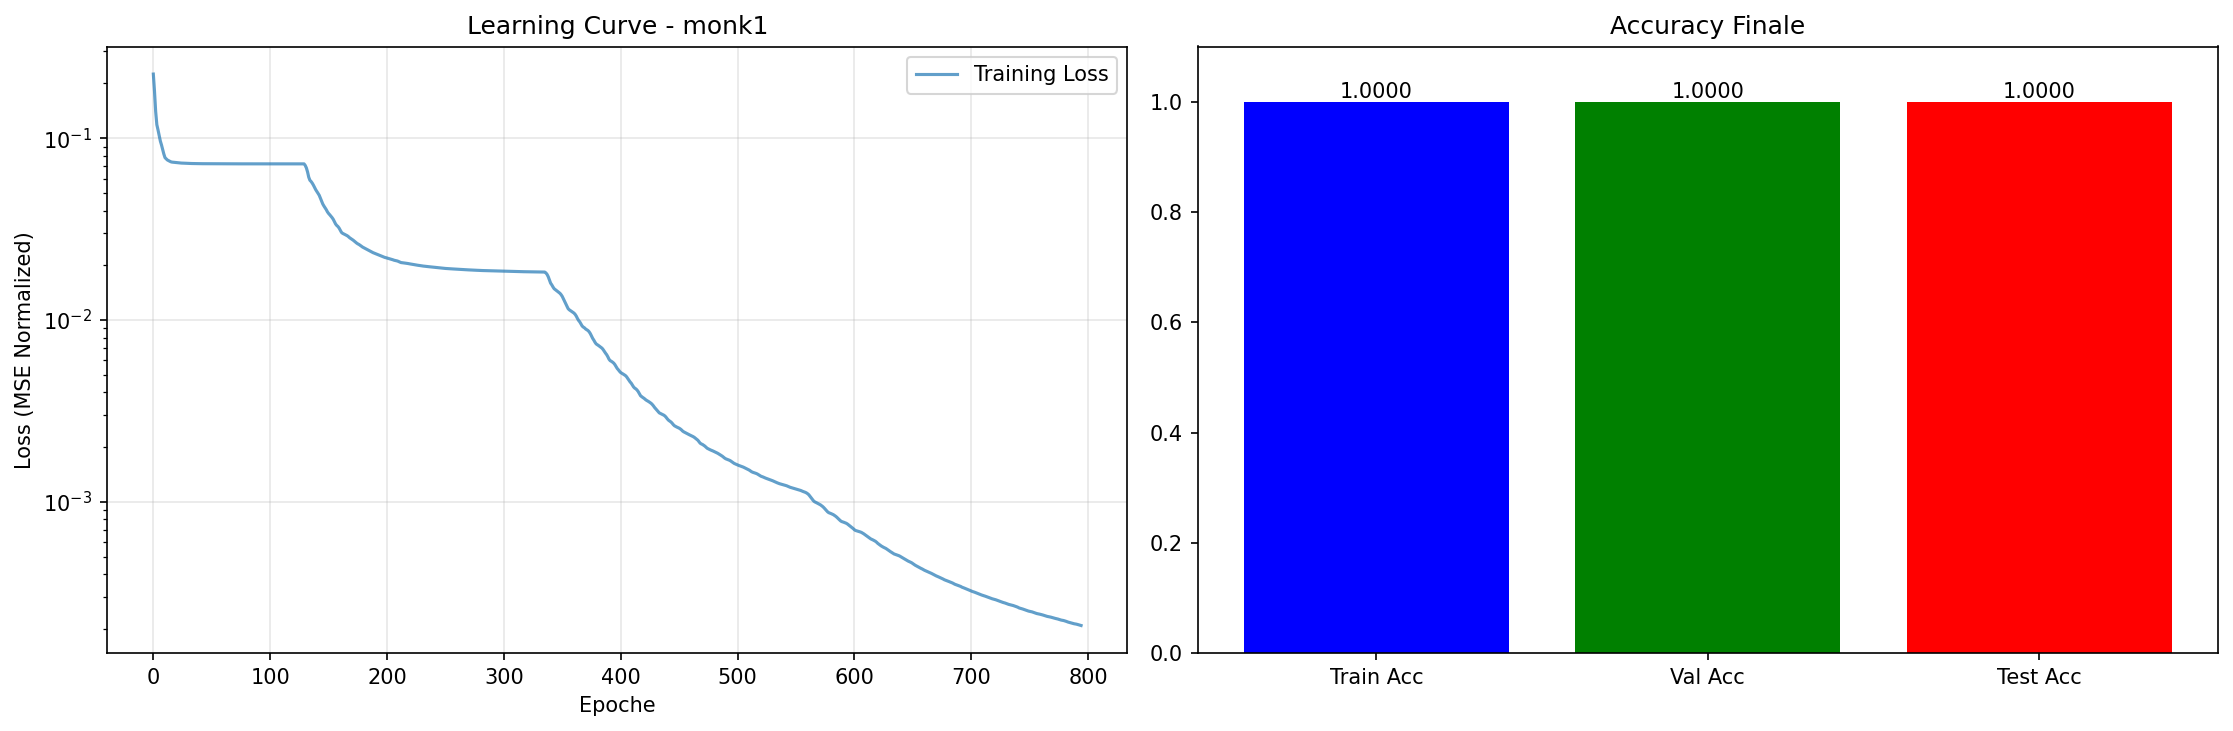
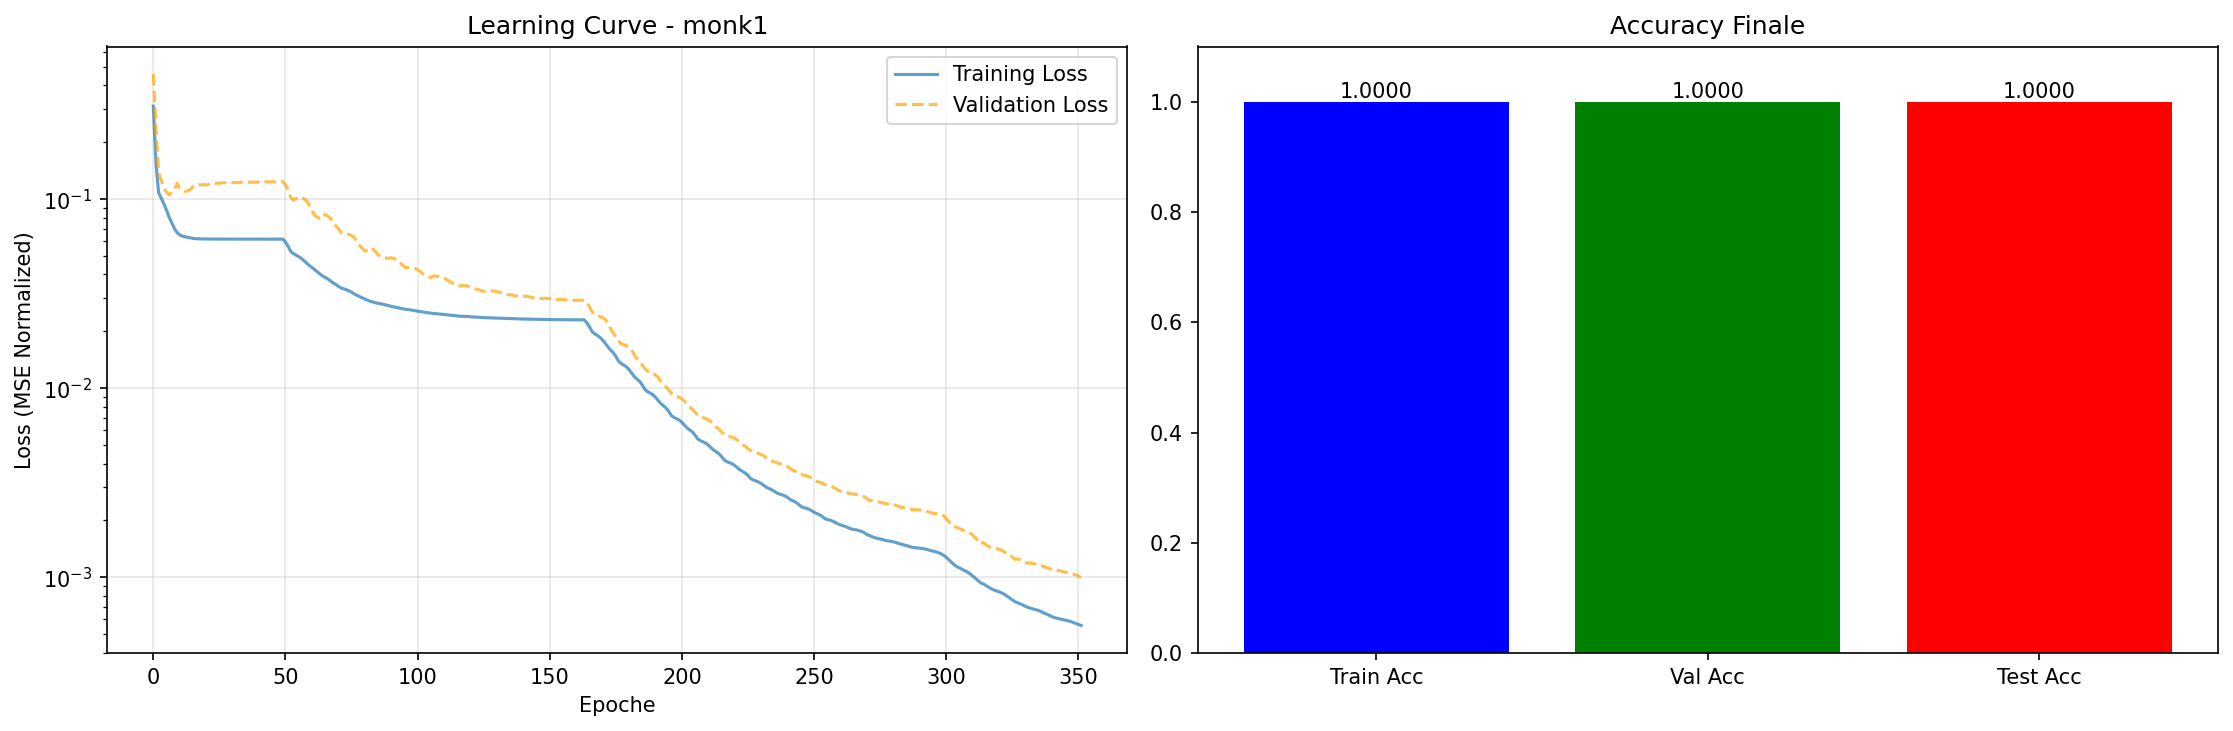
MONK1-2 CASCADE TOP

diff --git a/src/cascade_grid_search.py b/src/cascade_grid_search.py
@@ -1,5 +1,6 @@
 import itertools
 import numpy as np
+from joblib import Parallel, delayed
 import matplotlib.pyplot as plt
 from cascade_correlation import CascadeNetwork
 from data_manipulation import *
@@ -63,7 +64,12 @@ class CascadeGridSearch:
                 max_hidden_units=params['max_hidden_units']
             )
             
-            loss_history = net.loss_history
+            history_package = {
+                'train': net.loss_history,
+                'val': net.val_loss_history
+            }
+            
+            y_pred_train = np.array([net.forward(x) for x in self.X_train])
             
             y_pred_train = np.array([net.forward(x) for x in self.X_train])
             y_pred_val = np.array([net.forward(x) for x in self.X_val])
@@ -79,7 +85,7 @@ class CascadeGridSearch:
                 'val_loss': val_loss,
                 'test_loss': test_loss,
                 'min_val_loss': val_loss, 
-                'history': loss_history
+                'history': history_package
             }
             
             if self.dataset_name != 'cup':
@@ -124,19 +130,42 @@ class CascadeGridSearch:
     def coarse_grid_search(self):
         print("INIZIO COARSE SEARCH CASCADE")
 
-        param_grid = {
-            'learning_rate': [0.01, 0.05, 0.1],   
-            'patience': [20, 50],                 
-            'tolerance': [0.01, 0.001],           
-            'max_hidden_units': [5, 10, 15],      
-            'algorithm': ['quickprop', 'rprop'],
-            'epochs': [1000]
-        }
+        if self.dataset_name == 'cup':
+            param_grid = {
+                'learning_rate': [0.005, 0.01, 0.02], # LR più bassi per precisione
+                'patience': [50, 80],                 # Più pazienza
+                'tolerance': [0.001, 0.0005],         # Tolleranza più stretta
+                'max_hidden_units': [5, 10, 15],      # Più neuroni per complessità
+                'algorithm': ['rprop', 'quickprop'],  # Rprop spesso va meglio su regressione
+                'epochs': [1000],
+                'l2_lambda': [0.0001, 0.001]          # Regolarizzazione importante
+            }
+        elif self.dataset_name == 'monk3':
+           param_grid = {
+                'learning_rate': [0.1, 0.2],
+                'patience': [30, 40],       
+                'tolerance': [0.01, 0.02],  
+                'max_hidden_units': [2, 3, 4], 
+                'algorithm': ['quickprop'],
+                'l2_lambda': [0.01, 0.001], 
+                'epochs': [1000]
+            }
+        elif self.dataset_name == 'monk1' or self.dataset_name == 'monk2':
+             param_grid = {
+                'learning_rate': [0.1, 0.2],          # LR più alti
+                'patience': [30],
+                'tolerance': [0.01],
+                'max_hidden_units': [2, 3],           
+                'algorithm': ['quickprop'],           # Quickprop vola sui Monk
+                'epochs': [1000],
+                'l2_lambda': [0.0001]                 # Regolarizzazione minima
+            }
         
         all_combinations = []
         for combo in itertools.product(*param_grid.values()):
             params = dict(zip(param_grid.keys(), combo))
             
+            # Logica correzione parametri (SGD/Momentum)
             if params['algorithm'] == 'sgd' and params.get('momentum', 0.0) == 0.0:
                 params['mu'] = 1.75
                 all_combinations.append(params)
@@ -145,24 +174,56 @@ class CascadeGridSearch:
                 all_combinations.append(params)
         
         print(f"Numero totale di combinazioni: {len(all_combinations)}")
+        print(f"Sto utilizzando tutti i core disponibili del processore Ryzen 5 3500U...")
         
+        shared_data = (
+            self.X_train, self.y_train, 
+            self.X_val, self.y_val, 
+            self.X_test, self.y_test
+        )
+        
+        def process_single_combination(params, data_pack):
+            # spacchetta i dati condivisi
+            X_tr, y_tr, X_v, y_v, X_te, y_te = data_pack
+            
+            # Crea istanza
+            searcher = CascadeGridSearch(self.dataset_name)
+            
+            # SOVRASCRIVI i dati con quelli fissati dal main process
+            # (Ignoriamo quelli caricati nel __init__ del worker)
+            searcher.X_train, searcher.y_train = X_tr, y_tr
+            searcher.X_val, searcher.y_val = X_v, y_v
+            searcher.X_test, searcher.y_test = X_te, y_te
+            
+            # Disabilita stampe
+            import sys, os
+            original_stdout = sys.stdout
+            sys.stdout = open(os.devnull, 'w')
+            try:
+                results, _ = searcher.train_evaluate(params)
+            finally:
+                sys.stdout.close()
+                sys.stdout = original_stdout
+            
+            return (params, results)
+        
+        # Passiamo 'shared_data' a ogni job
+        all_results_raw = Parallel(n_jobs=-1, verbose=10)(
+            delayed(process_single_combination)(p, shared_data) for p in all_combinations
+        )
+        
+        all_results = [res for res in all_results_raw if res[1] is not None]
+        
+        # ... (Il resto del codice per ordinare e stampare rimane uguale) ...
+        # RICERCA DEL MIGLIORE
         best_score = float('inf')
         best_params = None
-        all_results = []
         
-        for i, params in enumerate(tqdm(all_combinations, desc="Grid Search")):
-            results, _ = self.train_evaluate(params)
-            
-            if results is not None:
-                all_results.append((params, results))
-                
-                # Usa validation loss (MSE normalizzato) per la selezione del modello migliore
-                current_score = results['min_val_loss']
-                
-                if current_score < best_score:
-                    best_score = current_score
-                    best_params = params.copy()
-                    # print(f"\nNuovo miglior risultato: {current_score:.6f}")
+        for params, results in all_results:
+            current_score = results['min_val_loss']
+            if current_score < best_score:
+                best_score = current_score
+                best_params = params.copy()
         
         print("\n" + "="*80)
         print("MIGLIORI RISULTATI COARSE GRID SEARCH")
@@ -260,11 +321,16 @@ class CascadeGridSearch:
         training_loss = []
         validation_loss = []
             
-        if isinstance(history, (list, np.ndarray)):
+        if isinstance(history, dict):
+            training_loss = history.get('train', [])
+            validation_loss = history.get('val', [])
+        elif isinstance(history, (list, np.ndarray)):
             training_loss = history
         
         # Plot Loss
         axes[0].plot(training_loss, label='Training Loss', alpha=0.7)
+        if len(validation_loss) > 0:
+            axes[0].plot(validation_loss, label='Validation Loss', color='orange', linestyle='--', alpha=0.7)
         axes[0].set_xlabel('Epoche')
         axes[0].set_ylabel('Loss (MSE Normalized)')
         axes[0].set_title(f'Learning Curve - {self.dataset_name}')
